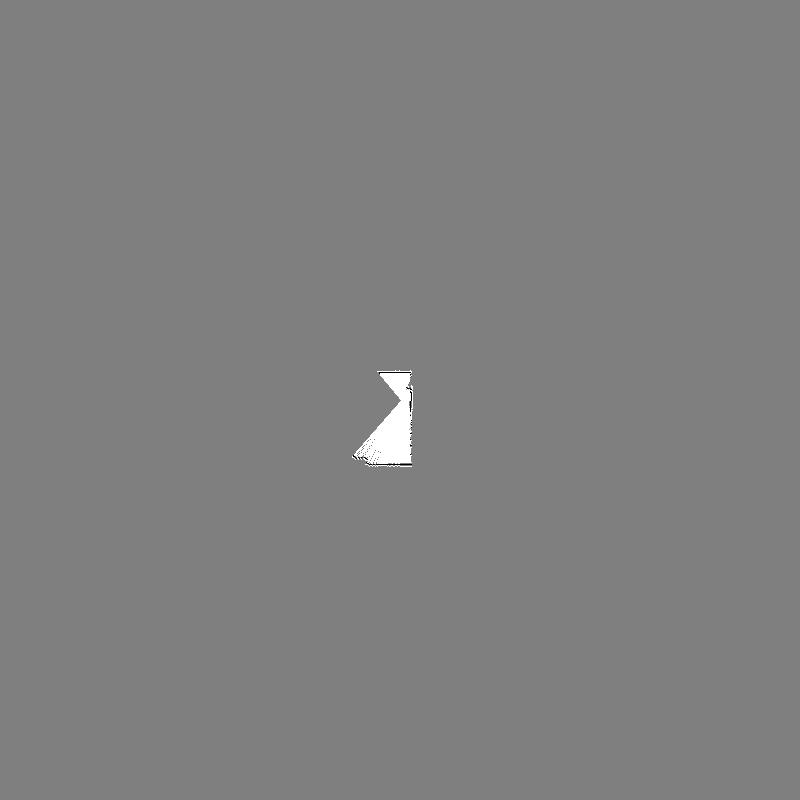
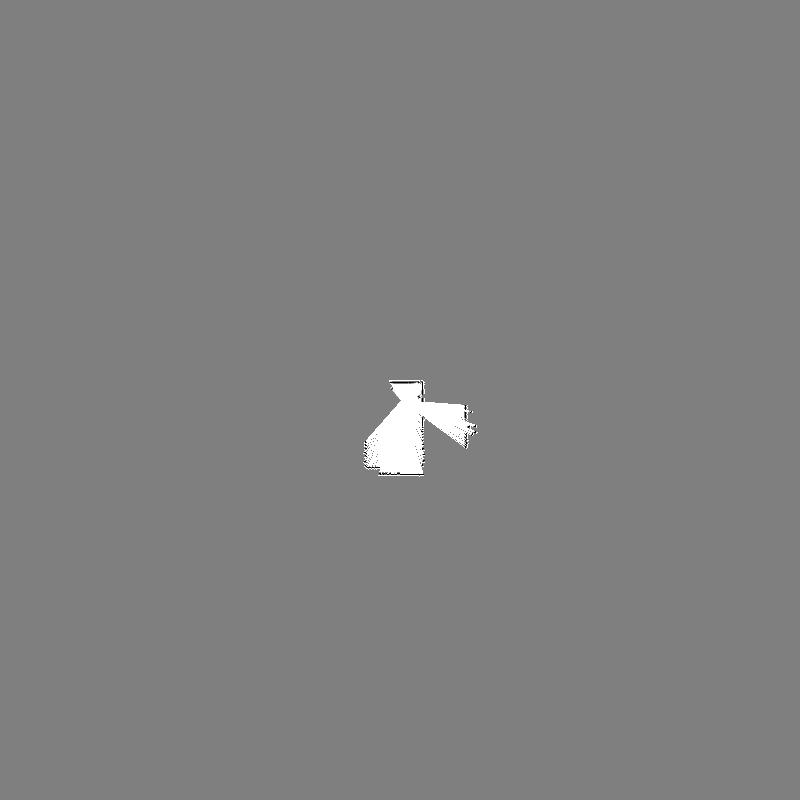
a

Changed region(s): [[0.4375, 0.4375, 0.5938, 0.5938]]

diff --git a/run.py b/run.py
@@ -26,14 +26,14 @@ def on_press(event):
     elif event == Key.right:
         if debug:
             print("Right")
-        robot.change_velocity([speed/2, -speed/2])
+        robot.change_velocity([speed/8, -speed/8])
         #robot.change_velocity(1, target='left')
         #robot.change_velocity(-1, target='right')
         print('--------------------------------- Direction turn right')
     elif event == Key.left:
         if debug:
             print("Left")
-        robot.change_velocity([-speed/2, speed/2])
+        robot.change_velocity([-speed/8, speed/8])
         #robot.change_velocity(-1, target='left')
         #robot.change_velocity(1, target='right')
         print('--------------------------------- Direction turn left')
@@ -108,9 +108,9 @@ if __name__ == "__main__":
         listener.start()
         
         while step < settings.simulation_steps:
-            #environment.pause_simulation()
+            environment.pause_simulation()
             display.update()
-            #environment.start_simulation()
+            environment.start_simulation()
             
             print("step:", step)            
             loop(robot, display)

diff --git a/lib/pathplanner.py b/lib/pathplanner.py
@@ -2,9 +2,9 @@ import numpy as np
 import time
 
 def lee_planning_path(grid, start, end):
-    status = np.zeros((len(a), len(grid[0])))
-    can_visit = np.ones((len(a), len(grid[0])))
-    visited = np.zeros((len(a), len(grid[0])))
+    status = np.zeros((len(grid), len(grid[0])))
+    can_visit = np.ones((len(grid), len(grid[0])))
+    visited = np.zeros((len(grid), len(grid[0])))
 
     reached = False
     status[grid < 10] = -1 #set obstacles to -1
